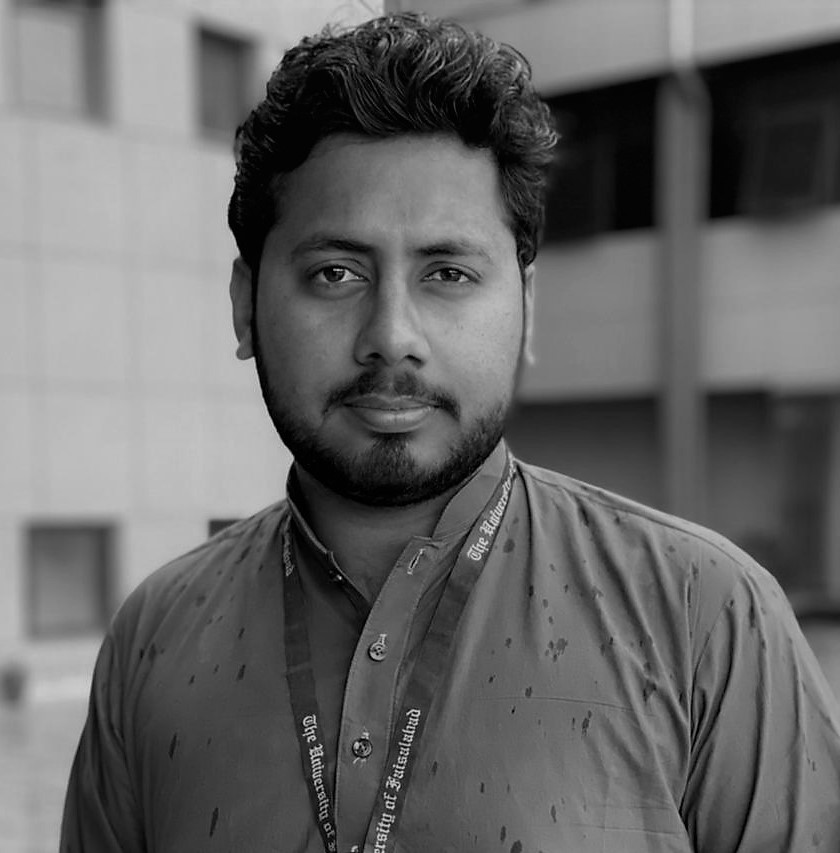
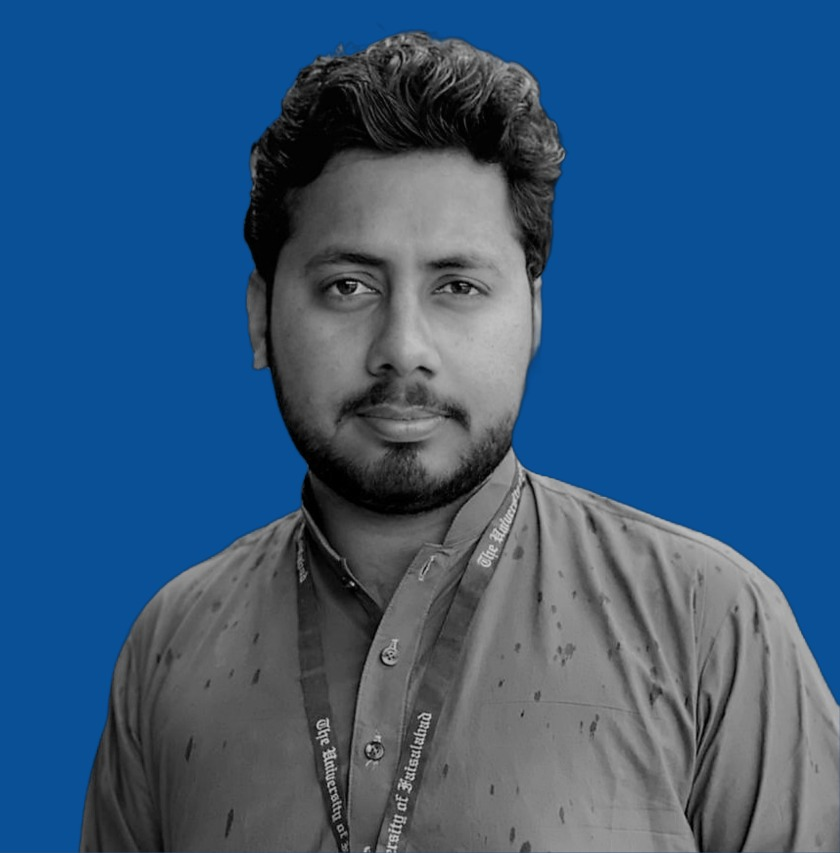
done

diff --git a/components/About.js b/components/About.js
@@ -3,20 +3,36 @@ import Image from "next/image";
 
 const About = () => {
   return (
-    <div className=" flex  bg-[rgb(36,36,36)] relative  p-10 mx-auto text-white md:text-left md:flex-row  h-screen justify-evenly items-center">
-      <div className="">
-        <Image className="flex-shrink-0 object-cover w-56 h-56 rounded-full md:rounded md-mb-0 md:w-74 md:h-95 "  src="/hashim.jpeg" alt="gdfdfg" width={300} height={300} />
-</div>
-      {/* <div className="p-4 text-center ">
-        <h1 className="pb-5 text-2xl font-extralight ">Muhammad Hashim</h1>
-        <p className="text-left md:text-red-300 ">
+
+    <div className=" flex flex-col bg-[rgb(36,36,36)] relative  md:px-8  md:py-28  mx-auto text-white  md:text-left md:flex-row  h-screen justify-evenly content-center">
+      <div className="bg-white-500 relative w-[400px] h-[350px] ">
+        <Image className="flex-shrink-0 object-cover w-[300px] max-sm:mx-auto  h-[300px] md:w-[350px] md:h-[500px] rounded-full md:rounded absolute top-6  left-6    " src="/My project-1 (7).jpg" alt="gdfdfg" width={300} height={500} />
+        <div className=" max-lg:hidden bg-[#4b12a5] object-cover w-[300px]  h-[300px] z-10 ">
+
+        </div>
+        {/* <Image className="flex-shrink-0 object-cover w-[300px]  h-[300px] md:w-[350px] md:h-[500px] rounded-full md:rounded   z-10" src="/backgoeund.jpg" alt="gdfdfg" width={300} height={500} /> */}
+      </div>
+      <div className="    text-center max-sm:w-auto w-[60vh] md:pt-14 ">
+        <h1 className="max-sm:p-0 py-4  font-League  text-[#ffbc12]  text-[25px] md:text-[35px]  font-bold antialiased max-md:flex  max-md:text-center max-md:gap-1 max-md:justify-center max-md:items-center">
+          <h1 className="md:text-start ">
+            Muhammad
+          </h1>
+          <h1>
+            Hashim
+          </h1>
+        </h1>
+
+        <p className=" text-left max-auto  max-sm:mx-auto  indent-8 md:text-center max-md:text-[15px] md:pt-2   leading-6 md:text-gray-100 md:text-[15px]  ">
           I am a highly skilled software engineer with expertise in Tailwind
           CSS, Next.js, TypeScript, JavaScript, and React.js. My experience in
           these technologies, combined with my passion for engineering, has
-          allowed me to deliver high-quality software solutions and consistently
-          meet project deadlines
+          allowed me to deliver high-quality software solutions .
+          <p className=" max-sm:hidden md:mt-9">
+
+            As an intern Frontend Developer with expertise in ReactJS and NextJS. I am excited to showcase my portfolio to demonstrate my skills and experience in developing responsive and interactive web applications.
+          </p>
         </p>
-      </div> */}
+      </div>
     </div>
   );
 };
@@ -26,5 +42,5 @@ export default About;
 // if (h0scrren<= md(786)){
 //   text-
 // }else{
-//   
+//
 // }

diff --git a/components/Hero.js b/components/Hero.js
@@ -16,10 +16,10 @@ export default function Hero() {
   })
 
   return (
-    <div className='flex bg-[rgb(36,36,36)]  h-screen flex-col justify-center items-center relative space-y- text-center text-overflow-hidden' >
-      <div>
-      <Backgorund/>
-        <Image  className="rounded-full pt-0"      
+    <div className='flex bg-[rgb(36,36,36)]   h-screen flex-col justify-center items-center relative space-y- text-center text-overflow-hidden' >
+      <div  >
+       <Backgorund/>
+        <Image  className="pt-0 rounded-full"      
         src='/hashim.jpeg' alt="Picture of the author" width={200} height={200} />
       </div>
       <div>
@@ -28,13 +28,17 @@ export default function Hero() {
         </h2>
       </div>
       <div className='z-10 '>
-        <h1 className="text-1xl lg:text-2xl font-medium subpixel-antialiased text-violet-300 hover:text-violet-500 text-heddin pt-1 scroll-px-10">
+        <h1 className="pt-1 subpixel-antialiased font-medium text-1xl lg:text-2xl text-violet-300 hover:text-violet-500 text-heddin scroll-px-10">
         <span className='mr-3 decoration-slate-50 '>{text}</span>
         </h1>
         
       </div>
-      <div className="  text-red-200">
-       <h1>hashim</h1>
+      <div className="text-gray-500  max-sm:text-[12px]   absolute bottom-6  ">
+        <button className=" max-sm:px-3 max-sm:mx-[1px] max-sm:py1   px-4 mx-1 py-1 rounded-full border-gray-500 border-[1px]">hashim</button>
+        <button className=" max-sm:px-3   max-sm:py1 max-sm:mx-[2px]  px-4 mx-1 py-1 rounded-full border-gray-500 border-[1px]" >hashim</button>
+        <button className=" max-sm:px-3  max-sm:py1 max-sm:mx-[2px]  px-4 mx-1 py-1 rounded-full border-gray-500 border-[1px]" >hashim</button>
+        <button className=" max-sm:px-3  max-sm:py1 max-sm:mx-[2px]   px-4 mx-1 py-1 rounded-full border-gray-500 border-[1px]" >hashim</button>
+        {/* <button className=" max-sm:px-3  max-sm:py1  max-sm:mx-[2px] px-5 mx-1 py-1 rounded-full border-gray-500 border-[1px]" >hashim</button> */}
         </div>
     </div>
   )

diff --git a/components/Header.js b/components/Header.js
@@ -2,17 +2,17 @@
 import { SocialIcon } from 'react-social-icons';
 export default function Header() {
   return ( 
-    <header className=" sticky top-0 flex justify-around  items-center max-w-7xl mx-auto z-20 xl:items-center p-5">
-      <div className='flex  flex-row justify-items-center object-contain  '>
+    <header className="sticky top-0 z-20 flex items-center justify-around p-5 mx-auto max-w-7xl xl:items-center">
+      <div className='flex flex-row object-contain justify-items-center '>
         <SocialIcon url="https://www.linkedin.com/in/muhammad-hashim-a080a61a8/" style={{ height: 35, width: 35 }}  fgColor='white' />
         <SocialIcon url="https://github.com/Muhammad-Hashim" fgColor='white' style={{ height: 35, width: 35 }} />
         <SocialIcon url="https://twitter.com/Muhammah_hashim?t=EftwHtBzsRknYATB6WMd-Q&s=09" style={{ height: 35, width: 35 }}  fgColor='white' />
         <SocialIcon url="https://www.linkedin.com/in/joshua-murphy-10b10b10b/" fgColor='gray' bgColor='transparent' style={{ height: 35, width: 35 }} />
         <SocialIcon url="https://www.linkedin.com/in/joshua-murphy-10b10b10b/" fgColor='gray' bgColor='transparent' style={{ height: 35, width: 35 }} />
       </div>
-      <div className='flex flex-row  space-x-4 items-center'>
+      <div className='flex flex-row items-center space-x-4'>
         <SocialIcon url="https://www.email.com/in/joshua-murphy-10b10b10b/"  bgColor='white'  style={{ height: 35, width: 35 }} />
-        <p className="uppercase hidden md:inline-flex text-sm text-gray-400">
+        <p className="hidden text-sm text-gray-400 uppercase md:inline-flex">
           Get in Touch
         </p>
       </div>

diff --git a/src/pages/index.js b/src/pages/index.js
@@ -3,26 +3,29 @@ import Image from 'next/image'
 import { Inter } from '@next/font/google'
 import Header from 'components/Header'
 import Hero from 'components/Hero'
-import About from 'components/About'
+import About from 'components/About';
+import { GoogleFonts } from "next-google-fonts";
 // import styles from '@/styles/Home.module.css'
 
 const inter = Inter({ subsets: ['latin'] })
 
 export default function Home() {
   return (
-    <div className='bg-[rgb(36,36,36)] text-white snap-y snap-mandatory h-screen z-0'>
+    <div className='bg-[rgb(36,36,36)]  text-white h-screen  z-0'>
       <Head>
         <title>Muhammad Hashim</title>
         <meta name="description" content="Generated by create next app" />
         <meta name="viewport" content="width=device-width, initial-scale=1" />
+        
+ 
         <link rel="icon" href="/favicon.ico" />
       </Head>
-
+      <GoogleFonts href="https://fonts.googleapis.com/css2?family=League+Spartan:wght@500&display=swap" />
       <Header />
-      <section id='hero' className='snap-center'>
+      <section id='hero' className=''>
         <Hero />
       </section>
-      <section id='about' className='snap-center'>
+      <section id='about' className=''>
         <About/>
       </section>
      

diff --git a/components/Backgorund.js b/components/Backgorund.js
@@ -4,8 +4,8 @@ const Backgorund = () => {
     return (
         <div className=" relative flex justify-center items-center">
             {/* <div className='border border-red-200 rounded-full h-[200px] w-[200px] animate-spin  mt-52'></div> */}
-            <div className='border border-red-200 rounded-full max-md:h-[450px] max-md:w-[450px]   md:h-[400px] md:w-[400px] animate-ping  mt-48 absolute '></div>
-            {/* <div className='border border-red-200 rounded-full h-[300px] w-[300px] animate-ping  mt-52 absolute '></div> */}
+            {/* <div className='border border-red-200 rounded-full max-md:h-[450px] max-md:w-[450px]   md:h-[400px] md:w-[400px] animate-ping  mt-48 absolute '></div> */}
+            <div className='border border-red-200 rounded-full h-[300px] w-[300px] animate-ping  mt-52 absolute '></div>
 
             <div className='border border-pink-500 rounded-full md:h-[700px] md:w-[700px] animate-pulse opacity-5  mt-48 absolute '></div>
          

diff --git a/src/pages/_app.js b/src/pages/_app.js
@@ -2,4 +2,7 @@ import '@/styles/globals.css'
 
 export default function App({ Component, pageProps }) {
   return <Component {...pageProps} />
+ 
+ 
+
 }
